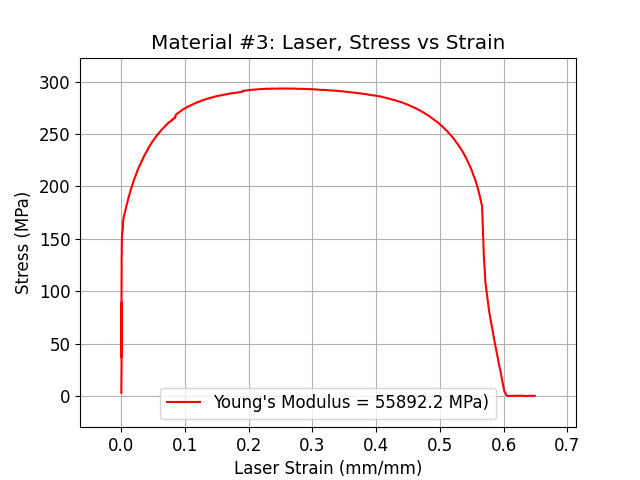
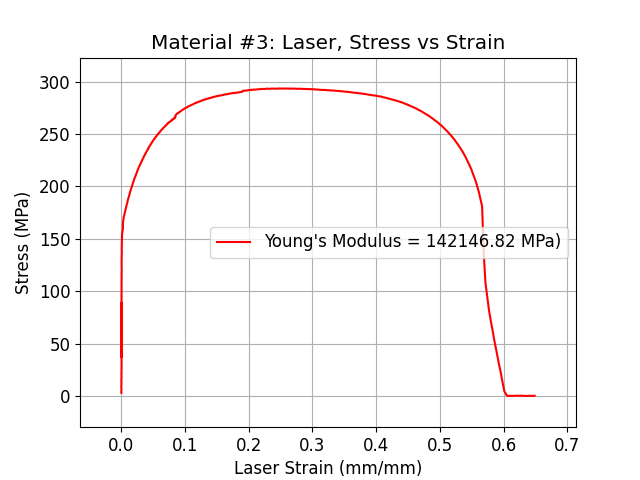
fixed modulus calcs

Changed region(s): [[0.3125, 0.4688, 0.9062, 0.5312], [0.25, 0.8125, 0.7812, 0.875]]

diff --git a/src/analysis.py b/src/analysis.py
@@ -62,6 +62,38 @@ def ModulusProcess(data: pd.DataFrame, test_num: np.int8):
     modulus : np.int
         elastic modulus for that sample
     '''
+    end_indices = [600, 74, 300, 550, 500] # region within which each graph is linear, determined observationally
+    
+    end_ind = end_indices[test_num-1]
+
+    # print(data[['MTS_stress', 'Laser']][0:end_ind])
+
+    modulus = [0, 0]
+
+    modulus[0], intercept = np.polyfit(data['Laser'][30:end_ind], data.MTS_stress[30:end_ind], deg=1)
+    modulus[1], intercept = np.polyfit(data['Strain Guage 2'][0:end_ind], data.MTS_stress[0:end_ind], deg=1)
+
+    if test_num == 3:
+        modulus[0], intercept = np.polyfit(data['Laser'][0:end_ind], data.MTS_stress[0:end_ind], deg=1)    
+    
+    return modulus
+
+def YieldProcess(data: pd.DataFrame, test_num: np.int8, modulus: np.float64):
+    '''
+    Calculate the young's modulus of the sample.
+
+    Parameters:
+    -----------   
+    data : pd.DataFrame
+        data from sensors
+    test_num : np.int
+        sample number
+
+    Returns:
+    -----------   
+    modulus : np.int
+        elastic modulus for that sample
+    '''
     end_indices = [600, 70, 250, 550, 500] # region within which each graph is linear, determined observationally
     
     end_ind = end_indices[test_num-1]

diff --git a/src/graphing.py b/src/graphing.py
@@ -29,10 +29,11 @@ def StrainGraph(data: pd.DataFrame, test_num: np.int8, sensor: np.array, modulus
     save : bool
         save graphs or not
     '''
-    # end_indices = [600, 70, 250, 550, 500]
-    
-    # end_ind = end_indices[test_num-1]
 
+    end_indices = [600, 70, 500, 550, 500]
+    
+    end_ind = end_indices[test_num-1]
+    
     end_ind = -1
 
     # finding plot limits:
@@ -48,12 +49,14 @@ def StrainGraph(data: pd.DataFrame, test_num: np.int8, sensor: np.array, modulus
         plt.title(f'Material #{test_num}: {str(s)}, Stress vs Strain')
         plt.xlabel(str(s) + ' Strain (mm/mm)')
         plt.ylabel('Stress (MPa)')
+        
+        mod = modulus[0 if (s == 'Laser') else 1]
+        plt.legend([f'Young\'s Modulus = {round(mod, 2)} MPa)'])
 
         # x = np.linspace(0, 1, 100)
-        # y = x*modulus
+        # y = x*mod
         # plt.plot(x, y)
 
-        plt.legend([f'Young\'s Modulus = {round(modulus, 2)} MPa)'])
         plt.grid()
         # if s not in ['Strain Guage 1', 'Strain Guage 2']:
         plt.xlim((max_strain*-0.1,max_strain*1.1))
